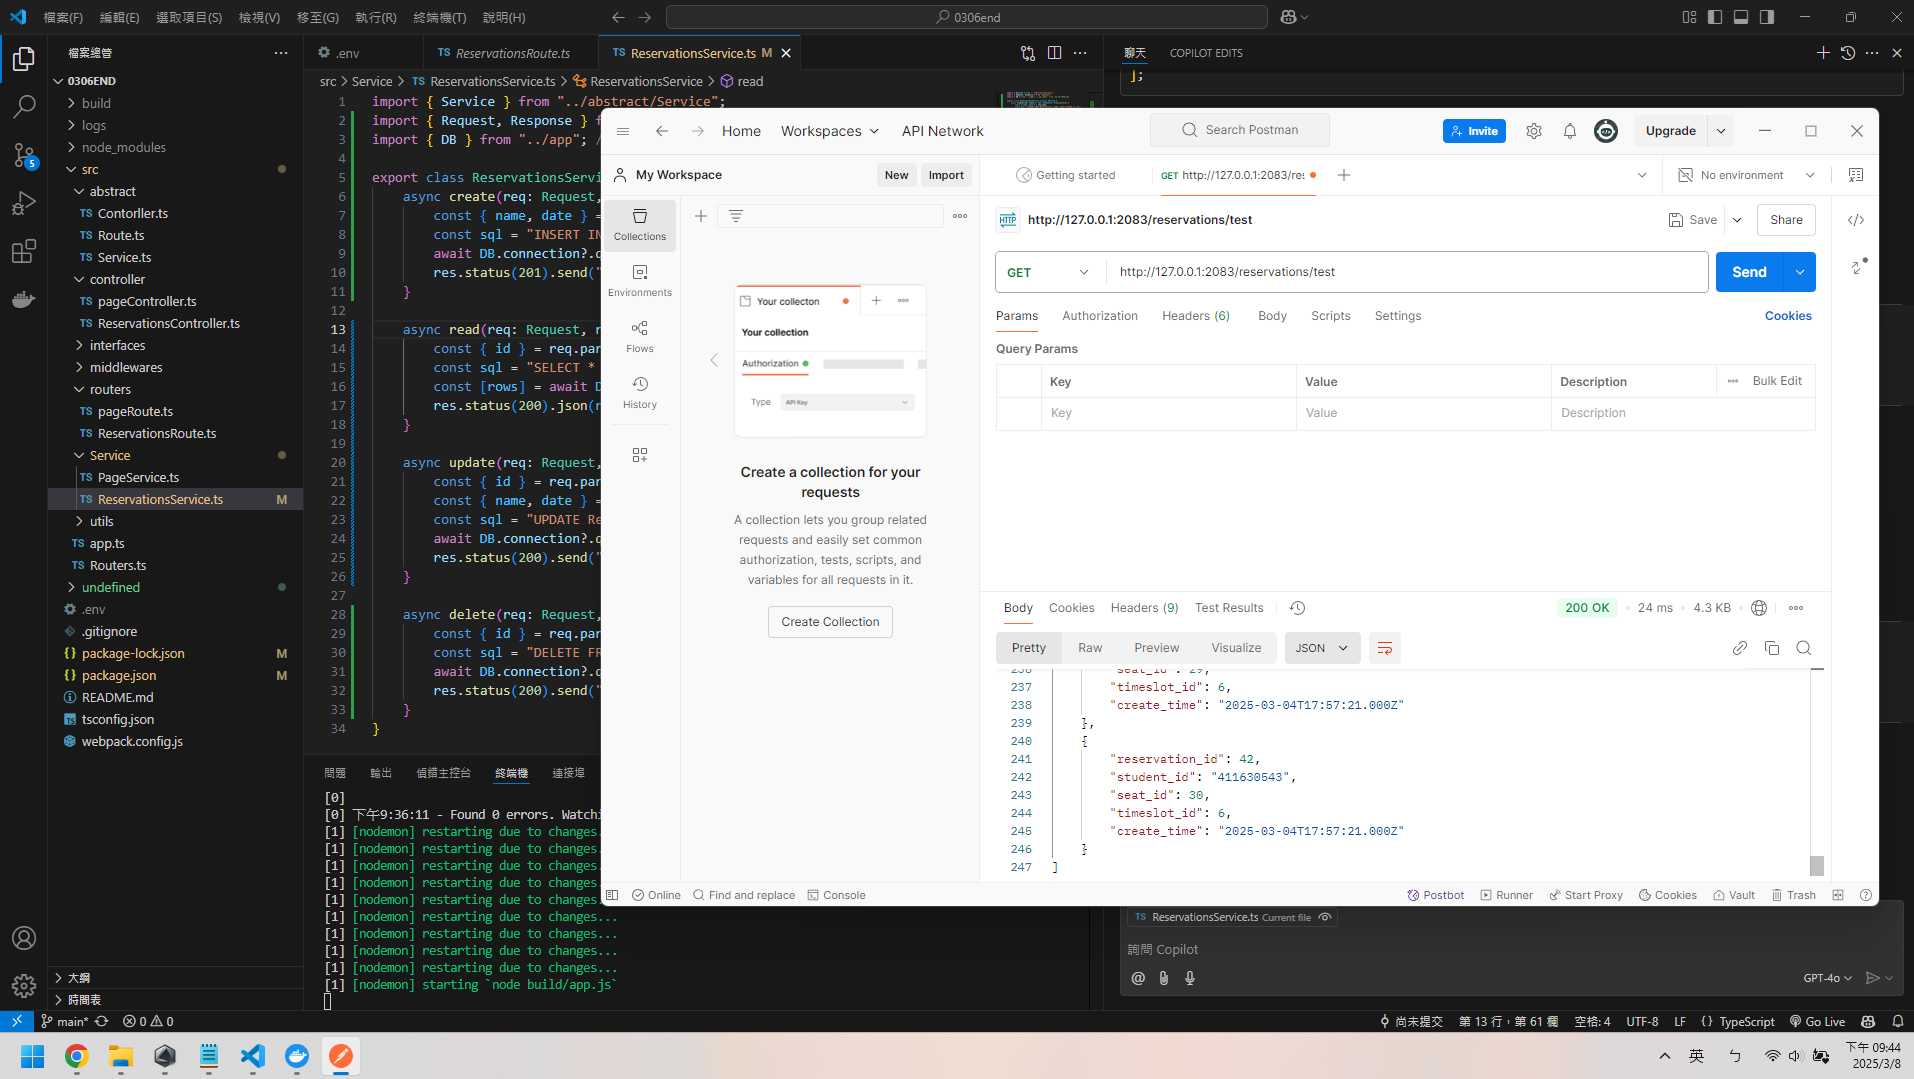
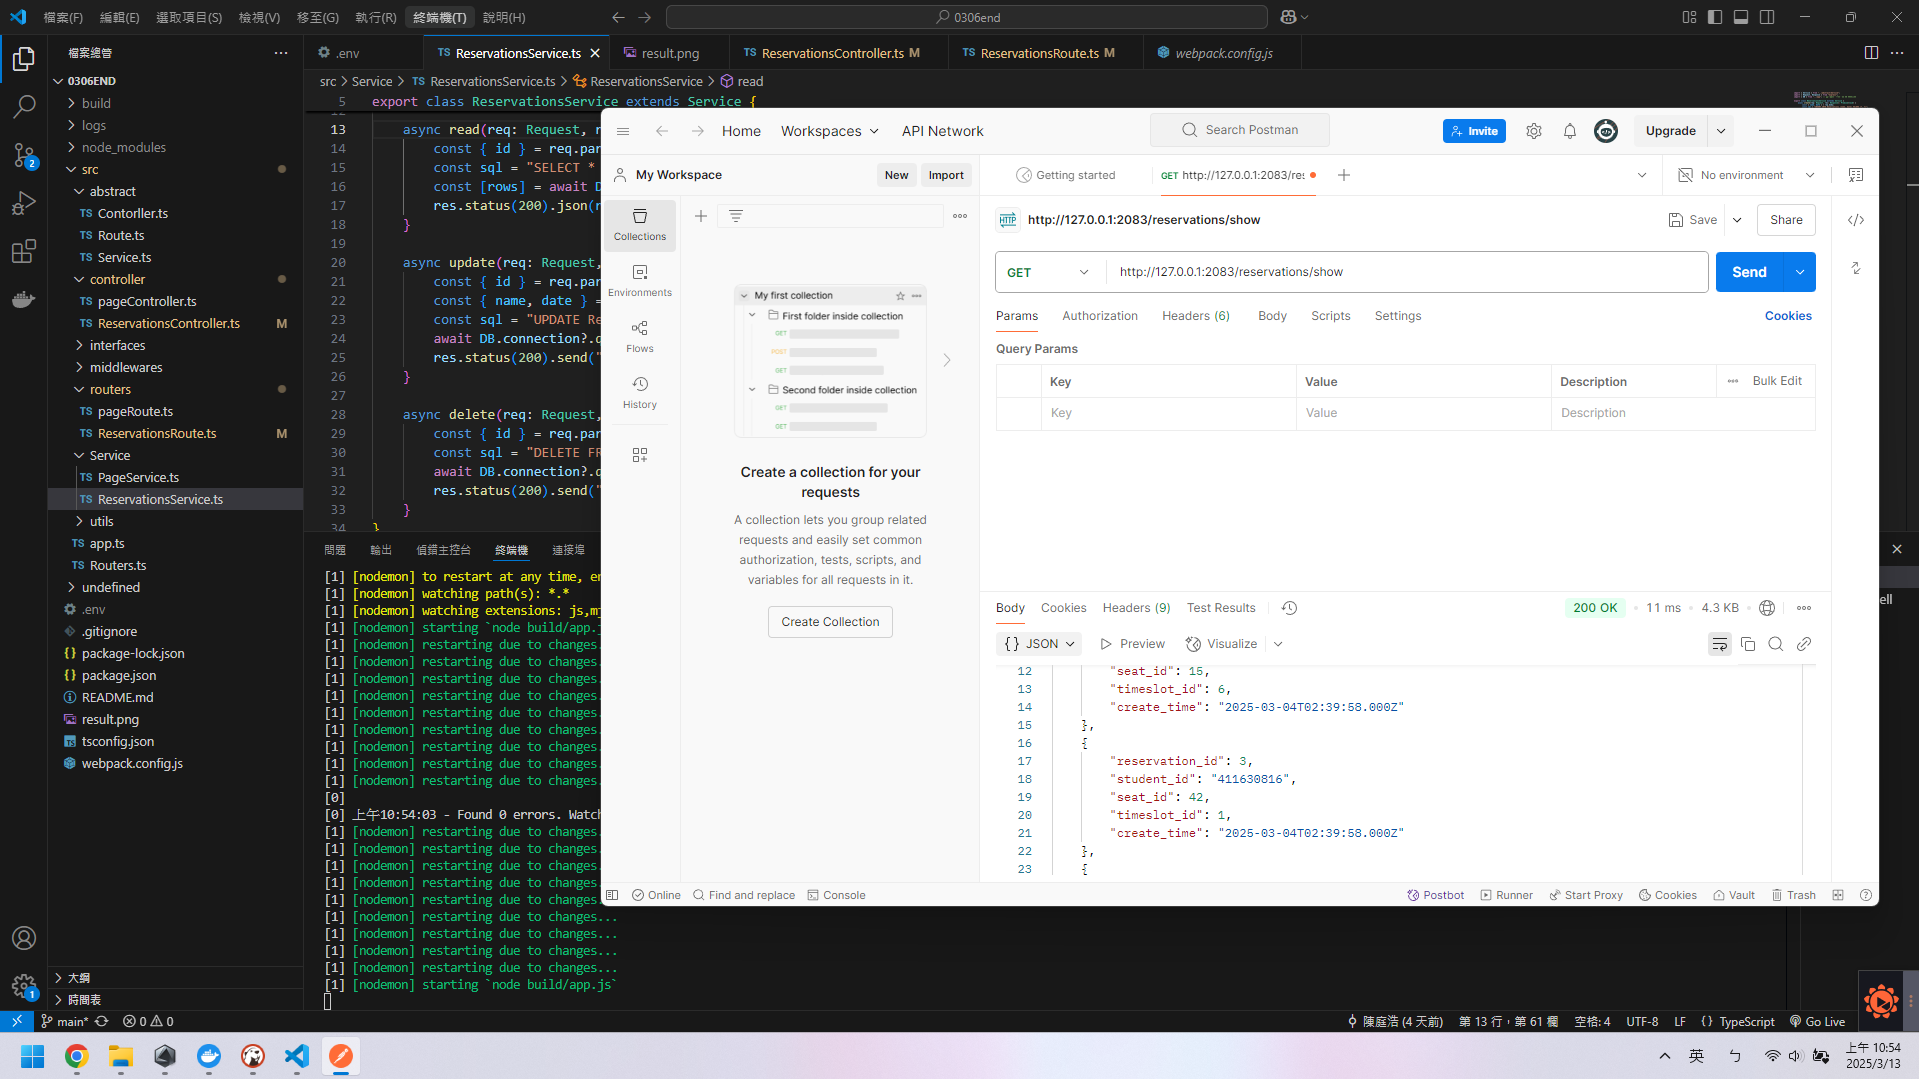
change sql

diff --git a/src/controller/ReservationsController.ts b/src/controller/ReservationsController.ts
@@ -14,7 +14,7 @@ export class ReservationsController extends Contorller {
         this.service = new PageService();
     }
 
-    public async test(Request: Request, Response: Response) {
+    public async show(Request: Request, Response: Response) {
         await DB.connection?.query("USE lab_b310;");
         const resp = await DB.connection?.query("SELECT * FROM Reservations;");
         Response.send(resp)

diff --git a/src/routers/ReservationsRoute.ts b/src/routers/ReservationsRoute.ts
@@ -13,8 +13,8 @@ export class ReservationsRoute extends Route{
     }
 
     protected setRoutes(): void {
-        this.router.get(`${this.url}test`,(req, res)=>{
-            this.Contorller.test(req, res);
+        this.router.get(`${this.url}show`,(req, res)=>{
+            this.Contorller.show(req, res);
         })
     }
 
